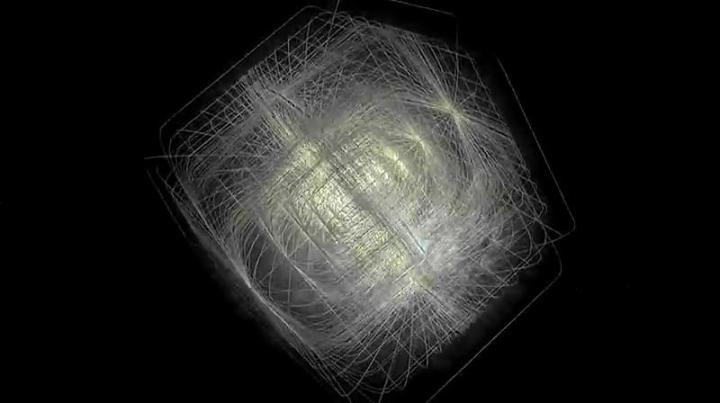
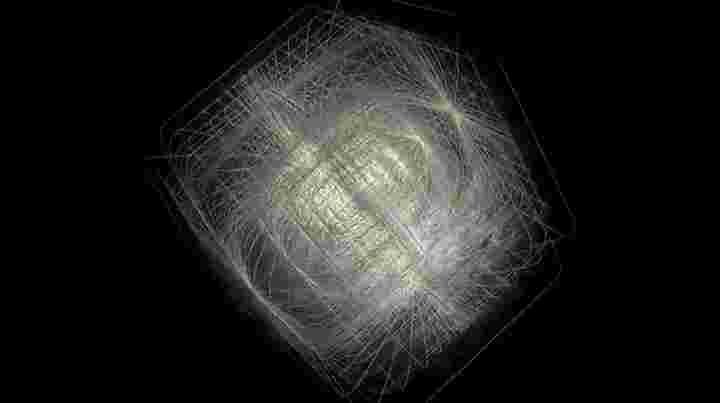
[mod] downscale img

diff --git a/articles/Ash/ap_codex.md b/articles/Ash/ap_codex.md
@@ -151,7 +151,7 @@ Codex
 - leaf级有两种建造方式，一种是在深空中建造，一种是在地面上建造。
 - 除了leaf级居住生产舰还有Fang级的攻击舰
 
-![ex-invade](ap_codex/ex-invade.webp)
+![ex-invade](ap_codex/ex-invade.jpg)
 #### 0x0d 高维入侵 Extradimension Invade
 - 关于高维入侵
 - 这点是借鉴the 3rd birthday，暂时没什么好讲。
@@ -197,7 +197,7 @@ Codex
 - 但在日常航行中，遭遇至暗是一场灾害。
 - 至暗对深空航行中的给人的意识准备的计算机虚拟空间（大都会， metropolitan，类似matrix世界）有非常巨大的损害。
 
-![Ecumenopolis](ap_codex/ecumenopolos.webp)
+![Ecumenopolis](ap_codex/ecumenopolos.jpg)
 #### 0x14 大都会 Ecumenopolis Metropolitan Matryoshka Brain Matrix Centropolis
 - 关于大都会 Ecumenopolis Metropolitan （Matryoshka Brain 马托里斯卡之脑 小型版）
 - 大都会是一个有计算机做底层硬件，构建出的一个虚拟城市世界。（类似Matix世界）
@@ -221,7 +221,7 @@ Codex
 - 关于相位星球
 - 
 
-![laika](ap_codex/laika.png)
+![laika](ap_codex/laika.jpg)
 #### 0x18 莱卡
 - 我记得有一条狗，叫莱卡(莱卡，俄语中，吠叫的意思）。
 - 60年前，它是第一个进入绕地球轨道的地球生物,也是第一个死在地球之外的生物。“它嗥叫了好长时间”，技术员说：“这太可怕了，一头孤单的狗，单独的在宇宙之中，嗥叫”
